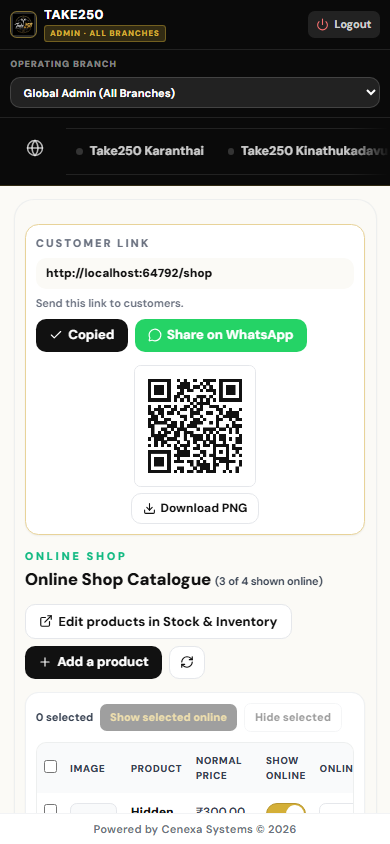
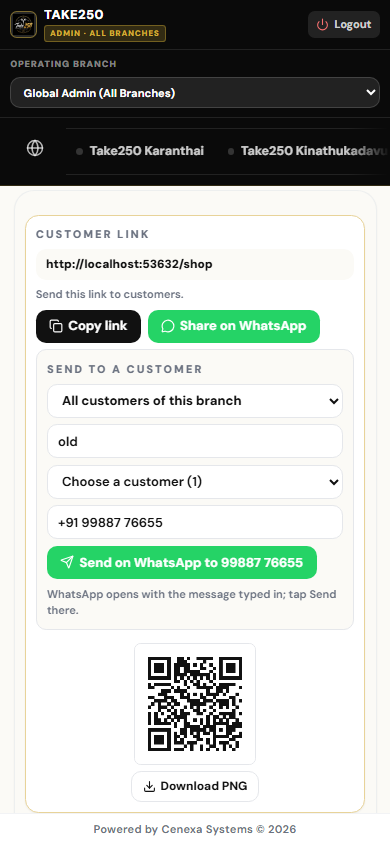
online shop: send the link to a customer (recent / all numbers)
- Admin "Online Shop" link card: "Send to a customer" with Recent
  customers (last 30 days) or All customers of this branch, search,
  a customer drop-down and a typed number (+91 accepted). "Send on
  WhatsApp" opens that customer's chat with the /shop link typed in;
  the Admin taps Send in WhatsApp.
- GET /api/shop-admin/customers (Admin, branch-scoped, no-store): one
  row per canonical phone from this branch's bills, advance orders and
  online requests, newest first; placeholder names left blank; phones
  never logged. Manager / Staff 403.
- Tests: per-branch customer list (recent / all / other branch / roles),
  the enquiry routes still refuse a branch selector like every global
  route, browser checks on desktop and mobile.

diff --git a/scripts/lib/shopSuite.ts b/scripts/lib/shopSuite.ts
@@ -2,7 +2,7 @@
 // (TEST database, inside its rolled-back transaction) and by the in-memory-Postgres harness. Every check runs per branch.
 import type { Actor, ReturnsCtx } from './returnsSuite'
 import { csvCell } from '../../src/lib/csvCell'
-import { shopLink, whatsappShareUrl } from '../../src/lib/shopLink'
+import { shopInviteText, shopLink, whatsappShareUrl, whatsappToUrl } from '../../src/lib/shopLink'
 
 export type ShopCtx = Omit<ReturnsCtx, 'concurrent'>
 type CallOpts = { cookie?: string; body?: unknown; query?: Record<string, string>; ip?: string }
@@ -127,9 +127,12 @@ export async function shopSuite(c: ShopCtx) {
     check(mine.status === 200 && (mine.body.enquiries as any[]).some((e) => e.enquiry_no === no1) && (mine.body.enquiries as any[]).every((e) => e.branch_id === b), `${L} Admin filtered to ${b} sees only ${b}'s requests`)
     const empty = await call('GET', '/api/shop-admin/enquiries', { cookie: cookies.admin, query: { in_branch: b, q: 'no-such-customer-zz' } })
     check(empty.status === 200 && Array.isArray(empty.body.enquiries) && empty.body.enquiries.length === 0, `${L} an empty result is an empty list (200), not an error`)
-    // the dashboard is all-branches: a branch SELECTOR on it is refused, which is why the screen never sends one
-    const sel = await call('GET', '/api/shop-admin/enquiries', { cookie: cookies.admin, query: { branch_id: b } })
-    check(sel.status === 400 && sel.body.code === 'branch_unreadable', `${L} the server still refuses a branch selector on the all-branches list (the client no longer sends it)`)
+    // the dashboard is all-branches: like every global route, a branch SELECTOR on it is refused, which is why the screen
+    // never sends one (the client keeps the enquiry routes on its no-branch list; the browser test covers Admin inside a branch)
+    for (const path of ['/api/shop-admin/enquiries', '/api/shop-admin/enquiries/pulse']) {
+      const sel = await call('GET', path, { cookie: cookies.admin, query: { branch_id: b } })
+      check(sel.status === 400 && sel.body.code === 'branch_unreadable', `${L} ${path} still refuses a branch selector, like every all-branches route`)
+    }
     const search = await call('GET', '/api/shop-admin/enquiries', { cookie: cookies.admin, query: { q: '98765 00088' } })
     check((search.body.enquiries as any[]).some((e) => e.enquiry_no === no1), `${L} search by phone finds the request`)
     for (const who of [mgr, staff]) {
@@ -165,6 +168,33 @@ export async function shopSuite(c: ShopCtx) {
     check(bulk.status === 200 && bulk.body.updated === 2 && shownNow[P1] === false && shownNow[P2] === false && shownNow[O1] === true, `${L} bulk hide changes only this branch's products`, JSON.stringify(shownNow))
     check((await call('PATCH', `/api/shop-admin/catalogue/${O1}`, { cookie: cookies.admin, query: { branch_id: b }, body: { show_online: false } })).status === 404, `${L} another branch's product cannot be edited from ${b}`)
 
+    // ================= customers of this branch, for "Send to a customer" on WhatsApp (Admin only)
+    const ord = (br: string, name: string, phone: string, daysAgo: number) => q(
+      `INSERT INTO orders (invoice_no, customer_name, phone, subtotal, total, branch_id, created_at) VALUES (public.get_next_invoice_no($1), $2, $3, 1, 1, $1, now() - make_interval(days => $4::int))`,
+      [br, name, phone, daysAgo])
+    const recentP = `97${n}00111${n}1`, walkinP = `95${n}00333${n}3`, oldP = `96${n}00222${n}2`, otherP = `94${n}00444${n}4`
+    await ord(b, 'Lakshmi', `+91 ${recentP.slice(0, 5)} ${recentP.slice(5)}`, 2)
+    await ord(b, 'Walk-in Customer', walkinP, 1)
+    await ord(b, 'Old Friend', oldP, 60)
+    await ord(other, 'Other Branch Person', otherP, 1)
+    const recent = await call('GET', '/api/shop-admin/customers', { cookie: cookies.admin, query: { branch_id: b } })
+    const rc = (recent.body?.customers ?? []) as Array<{ phone: string; name: string | null }>
+    const find = (list: typeof rc, ph: string) => list.find((x) => x.phone === ph)
+    check(recent.status === 200 && find(rc, recentP)?.name === 'Lakshmi' && !!find(rc, walkinP) && find(rc, walkinP)?.name === null && !!find(rc, '9876500088') && !find(rc, oldP) && !find(rc, otherP),
+      `${L} recent customers: this branch's buyers and online customers of the last 30 days (canonical phone, placeholder names blank), not older ones, not other branches`, JSON.stringify(rc).slice(0, 300))
+    check(rc.indexOf(find(rc, walkinP)!) < rc.indexOf(find(rc, recentP)!), `${L} recent customers are listed newest first`)
+    check(String((recent as any).headers?.get?.('cache-control') ?? '') === 'no-store', `${L} the customer list is never cached`)
+    const everyone = await call('GET', '/api/shop-admin/customers', { cookie: cookies.admin, query: { branch_id: b, range: 'all' } })
+    const ec = (everyone.body?.customers ?? []) as typeof rc
+    check(everyone.status === 200 && find(ec, oldP)?.name === 'Old Friend' && !!find(ec, recentP) && !find(ec, otherP), `${L} all customers include older ones, still only this branch`)
+    const custCodes = [
+      (await call('GET', '/api/shop-admin/customers', { cookie: cookies[mgr] })).status,
+      (await call('GET', '/api/shop-admin/customers', { cookie: cookies[mgr], query: { branch_id: other } })).status,
+      (await call('GET', '/api/shop-admin/customers', { cookie: cookies[staff], query: { range: 'all' } })).status,
+    ]
+    check(custCodes.every((x) => x === 403), `${L} manager / staff cannot list customers (403, forged branch too)`, JSON.stringify(custCodes))
+    check((await call('GET', '/api/shop-admin/customers', { cookie: cookies.admin })).status === 400, `${L} Admin must have a branch selected to list its customers`)
+
     // ================= 4. once: CSV formula cells, a future branch gets its counter
     if (first) {
       first = false
@@ -175,6 +205,9 @@ export async function shopSuite(c: ShopCtx) {
       const links = origins.map(shopLink)
       check(links.every((l) => l.endsWith('/shop') && !l.includes('//shop') && !/[?#]/.test(l)) && links[0] === 'https://take250.vercel.app/shop' && links[1] === 'https://take250-git-feature-x-team.vercel.app/shop' && links[3] === 'https://take250.in/shop',
         'shop: the copied link is <origin>/shop on production, preview and local addresses', links.join(' '))
+      const inv = whatsappToUrl('9811100077', shopInviteText(links[0], 'Meena'))
+      check(inv === `https://wa.me/919811100077?text=${encodeURIComponent('Hi Meena, you can now order from TAKE250 online: https://take250.vercel.app/shop')}` && shopInviteText(links[0]).startsWith('Hi, you can'),
+        'shop: "Send to a customer" opens that customer\'s WhatsApp chat with the /shop link typed in', inv)
       const wa = whatsappShareUrl(links[0])
       check(wa === 'https://wa.me/?text=https%3A%2F%2Ftake250.vercel.app%2Fshop' && decodeURIComponent(new URL(wa).searchParams.get('text') || '').endsWith('/shop'),
         'shop: the WhatsApp share link carries the encoded /shop link', wa)

diff --git a/src/components/shop/ShopLinkCard.tsx b/src/components/shop/ShopLinkCard.tsx
@@ -1,15 +1,46 @@
 import { useEffect, useMemo, useRef, useState } from 'react'
-import { Check, Copy, Download, MessageCircle } from 'lucide-react'
+import { Check, Copy, Download, MessageCircle, Send } from 'lucide-react'
 import qrcode from 'qrcode-generator'
-import { shopLink, whatsappShareUrl } from '../../lib/shopLink'
+import { api } from '../../lib/apiClient'
+import { canonicalPhone } from '../../lib/phone'
+import { shopInviteText, shopLink, whatsappShareUrl, whatsappToUrl } from '../../lib/shopLink'
+import type { PosBranch } from '../../store/store'
+
+type Customer = { phone: string; name: string | null; last_at: string; visits: number }
+const spaced = (p: string) => `${p.slice(0, 5)} ${p.slice(5)}`
 
 const QR_PX = 640 // drawn large, shown small: the downloaded PNG stays sharp when printed
 
 /** Top of the Admin "Online Shop" screen: the customer link, copy / WhatsApp share, and a QR code to download. */
-export default function ShopLinkCard() {
+export default function ShopLinkCard({ branch }: { branch?: PosBranch }) {
   const link = useMemo(() => shopLink(window.location.origin), [])
   const canvasRef = useRef<HTMLCanvasElement>(null)
   const [copied, setCopied] = useState(false)
+  // send the link to one customer of this branch: recent (last 30 days) or everyone who has bought / asked here
+  const [range, setRange] = useState<'recent' | 'all'>('recent')
+  const [customers, setCustomers] = useState<Customer[]>([])
+  const [loadError, setLoadError] = useState('')
+  const [search, setSearch] = useState('')
+  const [picked, setPicked] = useState('')
+  const [typed, setTyped] = useState('')
+
+  useEffect(() => {
+    if (!branch) return
+    let cancelled = false
+    api<{ customers: Customer[] }>('GET', '/api/shop-admin/customers', { query: { range }, branchId: branch })
+      .then((r) => { if (!cancelled) { setCustomers(r.customers); setPicked(''); setLoadError('') } })
+      .catch((e) => { if (!cancelled) { setCustomers([]); setLoadError(e instanceof Error ? e.message : 'Customers could not be loaded') } })
+    return () => { cancelled = true }
+  }, [branch, range])
+
+  const shown = useMemo(() => {
+    const q = search.trim().toLowerCase()
+    const digits = q.replace(/\D/g, '')
+    return q ? customers.filter((c) => (c.name ?? '').toLowerCase().includes(q) || (digits.length > 0 && c.phone.includes(digits))) : customers
+  }, [customers, search])
+  const typedPhone = canonicalPhone(typed)
+  const target = typedPhone ?? (picked || null)
+  const targetName = typedPhone ? null : customers.find((c) => c.phone === picked)?.name ?? null
 
   useEffect(() => {
     const canvas = canvasRef.current
@@ -73,6 +104,37 @@ export default function ShopLinkCard() {
             <MessageCircle size={14} /> Share on WhatsApp
           </a>
         </div>
+        {branch && (
+          <div className="space-y-2 rounded-xl border border-[#E5E7EB] bg-[#FBFAF6] p-3" data-testid="shop-link-send">
+            <p className="text-[11px] font-black uppercase tracking-[0.18em] text-[#6B7280]">Send to a customer</p>
+            <div className="grid gap-2 sm:grid-cols-2">
+              <select value={range} onChange={(e) => setRange(e.target.value as 'recent' | 'all')} aria-label="Which customers" className="h-10 rounded-xl border border-[#E5E7EB] bg-white px-3 text-[13px] font-bold text-[#111111]" data-testid="shop-link-range">
+                <option value="recent">Recent customers (last 30 days)</option>
+                <option value="all">All customers of this branch</option>
+              </select>
+              <input value={search} onChange={(e) => setSearch(e.target.value)} placeholder="Search name or number" aria-label="Search customers" className="h-10 rounded-xl border border-[#E5E7EB] bg-white px-3 text-[13px] font-semibold" data-testid="shop-link-search" />
+            </div>
+            <select value={picked} onChange={(e) => { setPicked(e.target.value); setTyped('') }} aria-label="Customer" className="h-10 w-full rounded-xl border border-[#E5E7EB] bg-white px-3 text-[13px] font-semibold text-[#111111]" data-testid="shop-link-customer">
+              <option value="">{shown.length ? `Choose a customer (${shown.length})` : 'No customers found'}</option>
+              {shown.map((c) => (
+                <option key={c.phone} value={c.phone}>{`${c.name ?? 'No name'} · ${spaced(c.phone)} · last ${new Date(c.last_at).toLocaleDateString('en-IN')}`}</option>
+              ))}
+            </select>
+            <input value={typed} onChange={(e) => setTyped(e.target.value)} inputMode="tel" placeholder="or type a mobile number" aria-label="Mobile number" className="h-10 w-full rounded-xl border border-[#E5E7EB] bg-white px-3 text-[13px] font-semibold" data-testid="shop-link-number" />
+            {loadError && <p className="text-xs font-bold text-red-600" role="alert">{loadError}</p>}
+            {typed.trim() !== '' && !typedPhone && <p className="text-xs font-bold text-red-600">Enter a valid 10-digit mobile number</p>}
+            {target ? (
+              <a href={whatsappToUrl(target, shopInviteText(link, targetName))} target="_blank" rel="noopener noreferrer" className="inline-flex items-center gap-1.5 rounded-xl bg-[#25D366] px-4 py-2 text-[13px] font-bold text-white" data-testid="shop-link-send-wa">
+                <Send size={14} /> Send on WhatsApp to {spaced(target)}
+              </a>
+            ) : (
+              <button type="button" disabled className="inline-flex items-center gap-1.5 rounded-xl bg-[#25D366]/50 px-4 py-2 text-[13px] font-bold text-white" data-testid="shop-link-send-wa">
+                <Send size={14} /> Send on WhatsApp
+              </button>
+            )}
+            <p className="text-[11px] font-semibold text-[#6B7280]">WhatsApp opens with the message typed in; tap Send there.</p>
+          </div>
+        )}
       </div>
       <div className="flex shrink-0 flex-col items-center gap-2">
         <canvas ref={canvasRef} width={QR_PX} height={QR_PX} className="h-36 w-36 rounded-lg border border-[#E5E7EB]" aria-label={`QR code for ${link}`} role="img" data-testid="shop-link-qr" />

diff --git a/server/routes/shop.ts b/server/routes/shop.ts
@@ -121,6 +121,34 @@ const publicRoutes = [
 ]
 
 const adminRoutes = [
+  // ---- customers of the branch in the switcher, to send the shop link on WhatsApp (Admin only, phones never logged).
+  // There is no customer table: a customer is a phone on this branch's bills, advance orders or online requests.
+  route({
+    method: 'get', path: '/api/shop-admin/customers', perm: 'shop.catalogue',
+    query: z.object({ range: z.enum(['recent', 'all']).default('recent') }).strict(),
+    async handler({ db, branch, query, res }) {
+      res.setHeader('Cache-Control', 'no-store')
+      const r = await db.query<{ phone: string; name: string | null; last_at: string; visits: number }>(
+        `SELECT phone, name, last_at, visits FROM (
+           SELECT p AS phone, (array_agg(nm ORDER BY at DESC) FILTER (WHERE nm IS NOT NULL))[1] AS name, max(at) AS last_at, count(*)::int AS visits
+             FROM (
+               SELECT public.canonical_phone(phone) p, customer_name n, created_at at FROM public.orders WHERE branch_id = $1 AND phone IS NOT NULL
+               UNION ALL
+               SELECT public.canonical_phone(phone), customer_name, created_at FROM public.advance_orders WHERE branch_id = $1 AND phone IS NOT NULL
+               UNION ALL
+               SELECT phone, customer_name, created_at FROM public.shop_enquiries WHERE branch_id = $1
+             ) x
+             -- placeholder names typed at the counter are not names
+             CROSS JOIN LATERAL (SELECT CASE WHEN btrim(COALESCE(x.n, '')) = '' OR lower(btrim(x.n)) IN ('customer', 'walk-in customer', 'walk in customer') THEN NULL ELSE btrim(x.n) END AS nm) c
+            WHERE p IS NOT NULL
+            GROUP BY p) y
+          WHERE $2 = 'all' OR last_at >= now() - interval '30 days'
+          ORDER BY last_at DESC
+          LIMIT $3`, [branch, query.range, query.range === 'all' ? 2000 : 200])
+      return { customers: r.rows.map((x) => ({ phone: String(x.phone), name: x.name ? String(x.name) : null, last_at: x.last_at, visits: Number(x.visits) })) }
+    },
+  }),
+
   // ---- online catalogue of the branch in the switcher
   route({
     method: 'get', path: '/api/shop-admin/catalogue', perm: 'shop.catalogue',

diff --git a/src/lib/shopLink.ts b/src/lib/shopLink.ts
@@ -14,3 +14,10 @@ export function shopLink(origin: string): string {
 
 /** WhatsApp share (the Admin picks the chat); the message is just the link. */
 export const whatsappShareUrl = (link: string): string => `https://wa.me/?text=${encodeURIComponent(link)}`
+
+/** The invitation sent to one customer (the Admin still taps Send in WhatsApp). */
+export const shopInviteText = (link: string, name?: string | null): string =>
+  `Hi${name ? ` ${name}` : ''}, you can now order from TAKE250 online: ${link}`
+
+/** WhatsApp chat with one customer (10-digit Indian mobile), the invitation typed in. */
+export const whatsappToUrl = (phone10: string, text: string): string => `https://wa.me/91${phone10}?text=${encodeURIComponent(text)}`

diff --git a/src/components/shop/OnlineCatalogue.tsx b/src/components/shop/OnlineCatalogue.tsx
@@ -64,7 +64,7 @@ export default function OnlineCatalogue({ branch, onOpenInventory }: { branch: P
   return (
     <div className="space-y-4 sm:space-y-6 rounded-[20px] sm:rounded-[28px] border border-[#E5E7EB]/60 bg-[#FBFAF6] p-3 sm:p-6 lg:p-7 shadow-sm" data-testid="online-catalogue">
       <input ref={fileRef} type="file" accept="image/*" className="hidden" onChange={(e) => void onFile(e.target.files?.[0])} />
-      <ShopLinkCard />
+      <ShopLinkCard branch={branch} />
       <div className="flex flex-wrap items-center justify-between gap-3">
         <div>
           <p className="text-[11px] font-black uppercase tracking-[0.24em] text-[#10B981]">Online shop</p>
